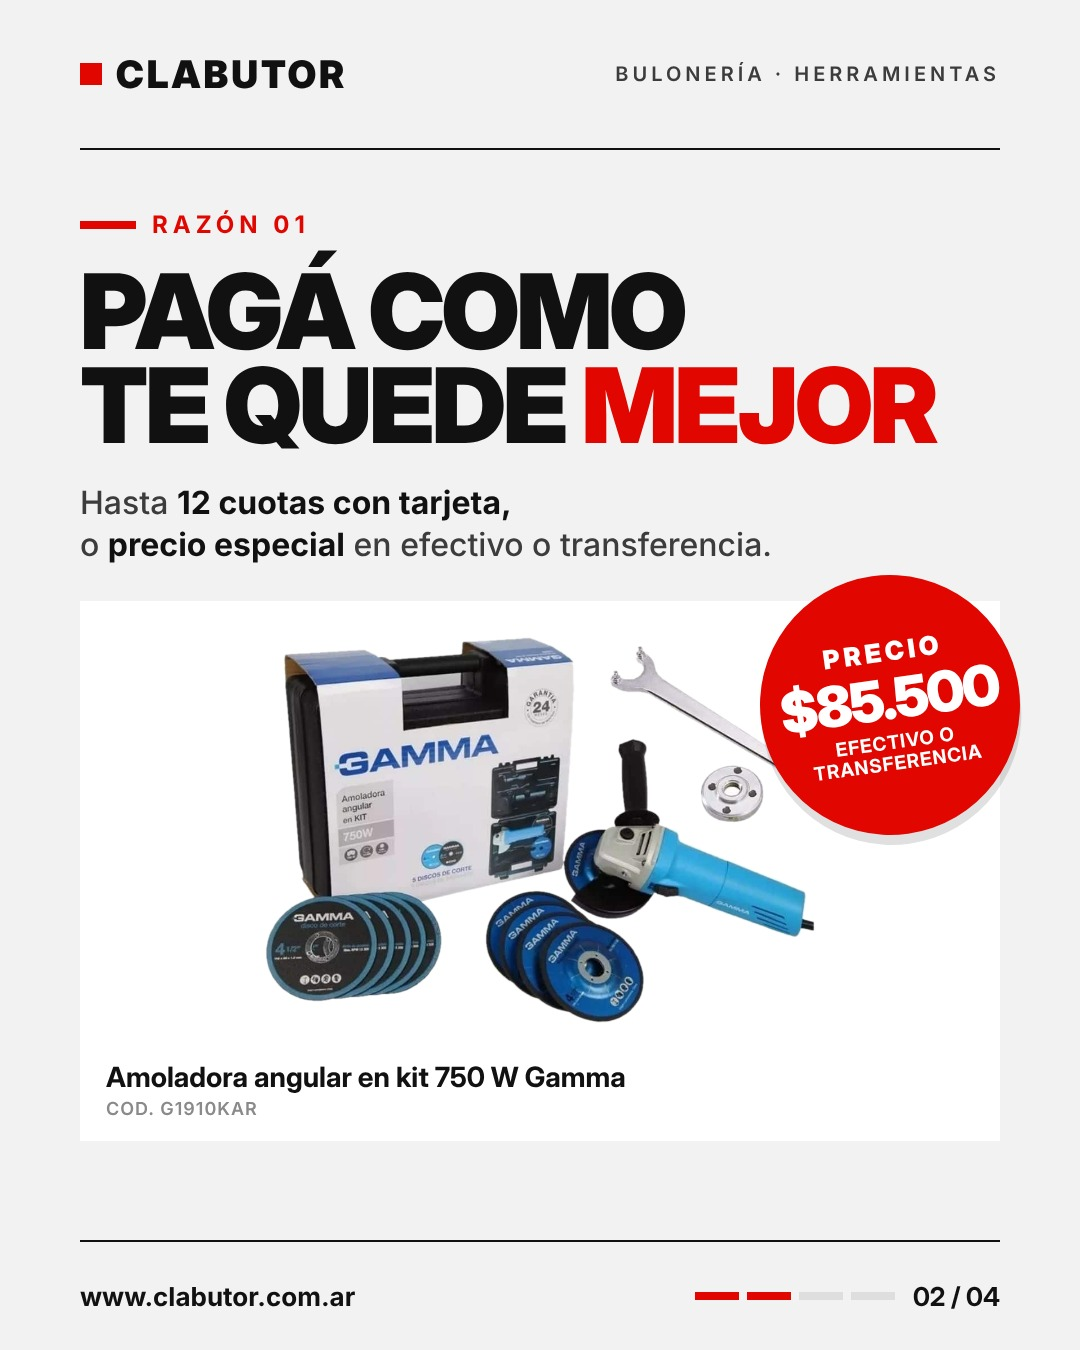
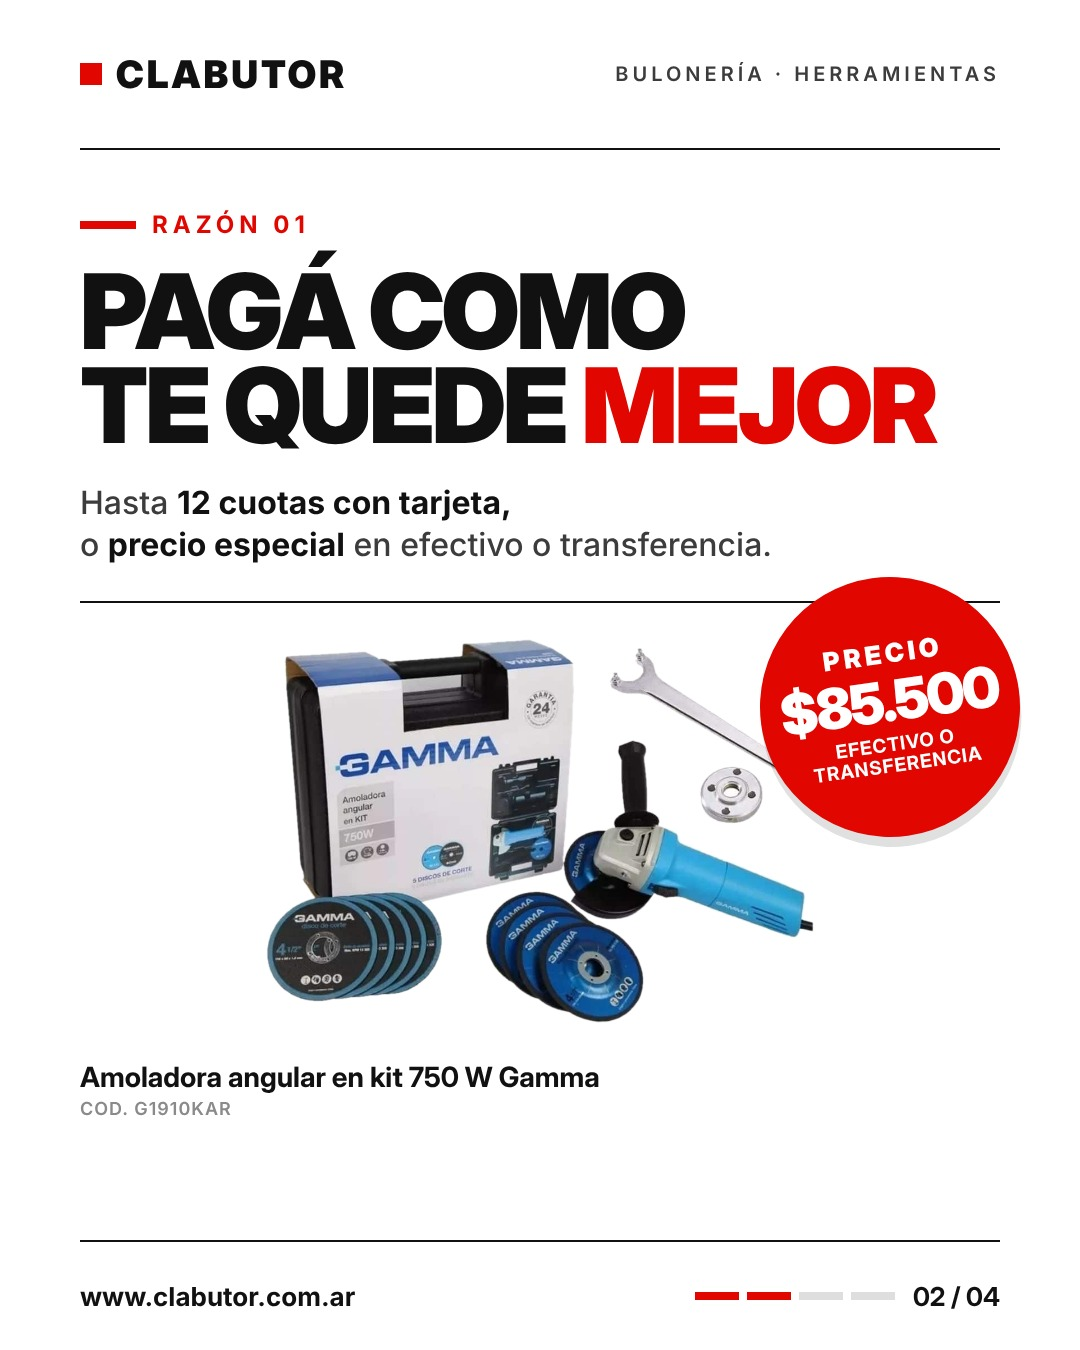
Placas claras siempre con fondo blanco; Posteo 3 placa 2 en blanco
Claude-Session: https://claude.ai/code/session_01XbJLpPx7CCs1ipZpL6GiAh

diff --git a/disenos/estilo.css b/disenos/estilo.css
@@ -71,3 +71,5 @@ h1 em { font-style: normal; color: var(--rojo); }
 .foto-lugar .falta { position: absolute; inset: 0; border: 3px dashed #9A9A9A; display: flex; flex-direction: column; align-items: center; justify-content: center; gap: 8px; color: #8A8A8A; font-weight: 700; font-size: 22px; letter-spacing: 2px; text-align: center; }
 .pin { position: absolute; display: flex; align-items: center; gap: 10px; background: var(--blanco); color: var(--negro); padding: 10px 18px 10px 12px; font-family: "Titular"; font-weight: 900; font-size: 24px; letter-spacing: 1px; }
 .pin svg { flex: none; }
+/* Regla: las placas claras van siempre con fondo blanco (sin grises) */
+.placa.gris { background: var(--blanco); }

diff --git a/disenos/historia.css b/disenos/historia.css
@@ -94,3 +94,5 @@ html, body { width: 1080px; height: 1920px; }
 /* Barras de progreso: entran aunque haya muchas historias */
 .pie-h .barras { width: 460px; justify-content: flex-end; gap: 6px; }
 .pie-h .barras span { width: auto; flex: 0 1 50px; min-width: 12px; }
+/* Regla: las historias claras van siempre con fondo blanco (sin grises) */
+.historia.gris { background: var(--blanco); }

diff --git a/disenos/posteos/posteo-03.py b/disenos/posteos/posteo-03.py
@@ -77,14 +77,14 @@ def placas(g):
 <div class="volanta">Razón 01</div>
 <h1 style="font-size:104px">Pagá como<br>te quede <em>mejor</em></h1>
 <p class="bajada" style="font-size:32px">Hasta <b>12 cuotas con tarjeta,</b><br>o <b>precio especial</b> en efectivo o transferencia.</p>
-<div style="position:relative;background:#fff;margin-top:34px;height:540px;display:flex;flex-direction:column">
+<div style="position:relative;background:#fff;margin-top:34px;height:540px;display:flex;flex-direction:column;border-top:2px solid #111">
   <div style="flex:1;min-height:0;display:flex;align-items:center;justify-content:center">{foto}</div>
   <div style="position:absolute;top:-26px;right:-20px;width:260px;height:260px;border-radius:50%;background:{ROJO};color:#fff;display:flex;flex-direction:column;align-items:center;justify-content:center;transform:rotate(-8deg);box-shadow:0 10px 0 rgba(0,0,0,.12)">
     <span style="font-family:Titular;font-weight:900;font-size:26px;letter-spacing:4px">PRECIO</span>
     <b style="font-family:Titular;font-weight:900;font-size:56px;letter-spacing:-2px;line-height:1;margin-top:4px">$85.500</b>
     <span style="font-family:Titular;font-weight:700;font-size:19px;letter-spacing:1px;margin-top:6px;text-align:center;line-height:1.1">EFECTIVO O<br>TRANSFERENCIA</span>
   </div>
-  <div style="padding:0 26px 22px">
+  <div style="padding:0 0 22px">
     <div style="font-family:Titular;font-weight:700;font-size:28px">Amoladora angular en kit 750 W Gamma</div>
     <div style="font-weight:600;font-size:18px;color:#8A8A8A;letter-spacing:1px;margin-top:4px">COD. G1910KAR</div>
   </div>
@@ -132,4 +132,4 @@ def placas(g):
   </div>
 </div>
 '''
-    return [("oscura", p1), ("gris", p2), ("", p3), ("oscura", p4)]
+    return [("oscura", p1), ("", p2), ("", p3), ("oscura", p4)]

diff --git a/disenos/REGLAS.md b/disenos/REGLAS.md
@@ -9,6 +9,8 @@
 - Pie: **www.clabutor.com.ar abajo a la izquierda** (no poner @clabutor.cba). Progreso de placas a la derecha.
 - Fotos de producto en `productos/<SKU>.jpg`, recortadas al producto (sin margen blanco). Se descargan solas listando los SKU en `productos/pedido.txt`.
 
+- Placas claras: **fondo blanco siempre**, nunca grises (vale para posteos e historias). Los fondos oscuros siguen igual.
+
 ## Redacción
 - No repetir el mismo tema en una placa: si la volanta dice "Todo el país", la bajada no repite "envíos a todo el país" (usar otra cosa, p. ej. "Retiro en sucursal o entrega a domicilio").
 - No repetir el link de la web dentro de la placa, porque ya está en el pie. Solo va en el cuerpo si es el título principal o una referencia tipo "Visitá nuestra web" / "Mirá lo que tenemos para vos en la web".
